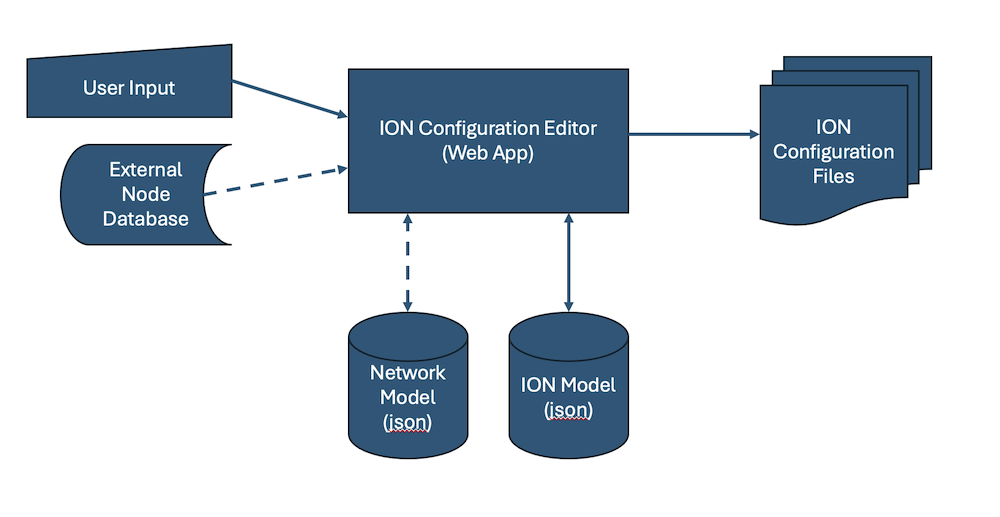
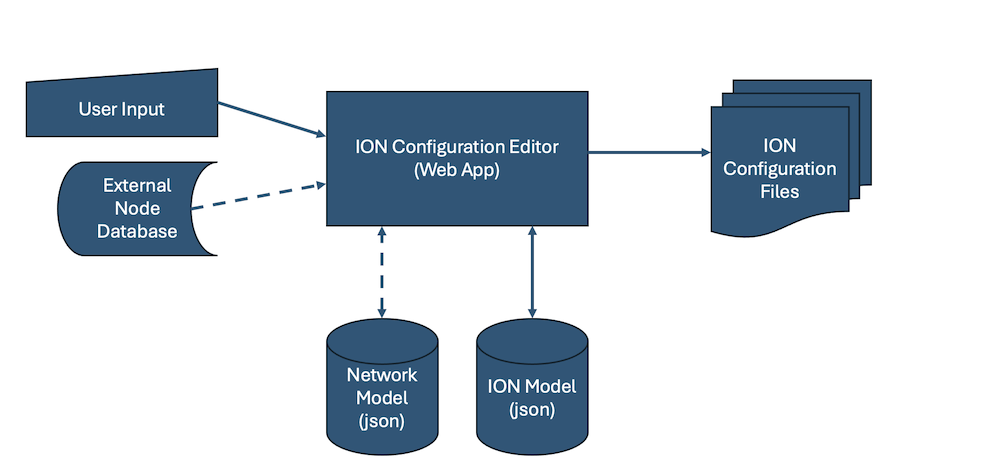
Found more types and png problems

Changed region(s): [[0.0, 0.089, 0.93, 0.9788], [0.372, 0.5339, 0.403, 0.5636]]

diff --git a/manual/user-manual.html b/manual/user-manual.html
@@ -41,9 +41,9 @@
 Double click the <code>index.html</code> file in the installation directory or use the browser&#39;s <strong>Load File</strong> and load it.  The application will begin running in a new tab of the browser.</p>
 <p>The ION Configuration Editor runs in this mode as a single page application running independently as a desktop application on your local machine.  It cannot communicate outside of your local machine.  If you wish to clear and restart the application, just reload the page with the browser reload button.  Be sure to save any current work prior to a reload, because using the reload button completely clears the application.</p>
 <p><b>Webserver Mode (must be used if interfacing with a DTNNR)</b></p>
-<p>There are many choices when running the ION Configuration Editor as a webserver. The simplist is to use a Python 3 installation and run the code by navigating to the installation directory where the <code>index.heml</code> file exists and issuing the following command:</p>
+<p>There are many choices of server technology when running the ION Configuration Editor as a webserver. One of the simplest is to use a Python 3 installation and run the code by navigating to the installation directory where the <code>index.heml</code> file exists and issuing the following command:</p>
 <p><pre>python3 -m http.server</pre></p>
-<p>This will start a webserver that can be accessed from your browser by using the URL <pre>http://localhost:8000</pre>. If you desire to use a different port, the Python http server can be started by passing the desired port number on the commmand line. For example,</p>
+<p>This will start a webserver that can be accessed from your browser by using the URL <pre>http://localhost:8000</pre> If you desire to use a different port, the Python http server can be started by passing the desired port number on the commmand line. For example,</p>
 <p><pre>python3 -m http.server 3030</pre> will start the server on port 3030 and the URL to use in your browser is <pre>http://localhost:3030</pre></p>
 <h2 id="dtn-node-repo">Interfacing with a DTN Node Repository</h2>
 <p><strong>NEW IN THIS RELEASE</strong></p>
@@ -134,10 +134,10 @@ a scheme  ipn  ipnfw  ipnadminep
 a endpoint  ipn:10.5  x 
 </code></pre><p>Of course, all of this annotation tends to defeat one of the design purposes of the ION command syntax.  ION commands are terse by design in order to minimize impact on space links.  If that is the concern, it is a simple matter to strip all of the comment lines since every comment line begins with a hash-mark and a blank.</p>
 <p>Returning to the issue of generating configuration text files, let us first look at the Config File object.  The <strong>Save File</strong> button will create a text file with the shown name (e.g., msl.bprc) with the annotated file format. Each browser has its own convention for its destination directory, with some using the Downloads directory.  For the Config File object, the Save File operation saves that exact file and nothing more.  If one wishes to preview the generated file, click the button <strong>Show File</strong>.</p>
-<h4 id="config-file-object-example">Config File Object Example</h4>
+<h4 id="config-file-object-example">Config File Object Examples</h4>
 <p><img src="Config-File-Object.png" alt="alt text" title="Config File Object"></p>
 <p>Looking now at the Ion Node object, one clicks the <strong>Save Configs</strong> button to generate the configuration text files.  In this case, the tool generates a file for each Config File child of that Ion Node.  At the node level, the tool also generates an ION startup script to invoke the correct ION programs with config files and in the correct order.  Assuming there is an associated Contact Graph, the start script will include that as well.</p>
-<h4 id="ion-node-object-example">Ion Node Object Example</h4>
+<h4 id="ion-node-object-example">Ion Node Object Examples</h4>
 <p><img src="Ion-Node-Object.png" alt="alt text" title="Ion Node Object"></p>
 <h4 id="ion-start-script-example">ION Start Script Example</h4>
 <pre><code>#!/bin/bash
